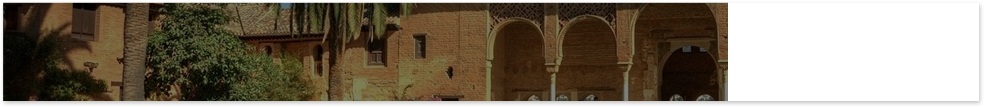
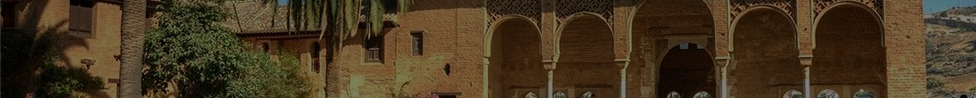
jdcasdoca

diff --git a/assets/css/upcomingStyles.css b/assets/css/upcomingStyles.css
@@ -4,43 +4,43 @@ div.surfing {
 	-moz-background-size:100% 100%;
 	-webkit-background-size:100% 100%;
 	background-size:100% 100%;	
-	padding:15px 10px 10px 10px;
 }
 
-div.grenada div.pickBack{
+div.granada {
 	background-image: url('../../images/upcoming/granadaBKG.png');
 	background-repeat: no-repeat;
-	-moz-background-size:140% 140%;
-	-webkit-background-size:140% 140%;
-	background-size:140% 140%;
-	height:200px;
+	-moz-background-size:100% 100%;
+	-webkit-background-size:100% 100%;
+	background-size:100% 100%;	
 }
 
-div.newYork div.pickBack{
+div.newYork {
 	background-image: url('../../images/upcoming/NYBKG.png');
 	background-repeat: no-repeat;
-	-moz-background-size:140% 140%;
-	-webkit-background-size:140% 140%;
-	background-size:140% 140%;
-	height:200px;
+	-moz-background-size:100% 100%;
+	-webkit-background-size:100% 100%;
+	background-size:100% 100%;	
 }
 
-.surfing h2, .newYork h2, .grenada h2{
+.surfing h2, .newYork h2, .granada h2{
+	padding-top: 10px;
+	padding-left: 5px;
 	font-size: 18px;
 	font-weight:400;
 	color: #fff;
 }
 
-.surfing p, .newYork p, .grenada p{
+.surfing p, .newYork p, .granada p{
+	padding-top: 10px;
 	vertical-align: bottom;
 	color: #EAE9E9;
 }
 
-.surfing strong, .newYork strong, .grenada strong{
-color: #fff;
-}
+.surfing strong, .newYork strong, .granada strong{
+	color: #fff;
+	}
 
-.surfing .bottomRow, .newYork .bottomRow, .grenada .bottomRow{
+.surfing .bottomRow, .newYork .bottomRow, .granada .bottomRow{
 	position:relative;
 	top: 25%;
 	border-bottom: 1px solid #939393;
@@ -69,6 +69,15 @@ color: #fff;
 	-webkit-box-shadow: 2px 1px 2px 2px rgba(0,0,0,.1);
 	box-shadow: 2px 1px 1px 1px rgba(0,0,0.1);
 
+}
+
+.trip-countdown .unclicked {
+	height: 100%;
+	background-color: #fff;
+}
+.trip-countdown .unclicked p {
+	padding-top: 14%;
+	color: rgb(105, 104, 104)
 }
 
 .surfing div.col-md-2{

diff --git a/assets/css/styles.css b/assets/css/styles.css
@@ -681,9 +681,8 @@ input[type="checkbox"]:checked + span {
 }
 
 .upcoming .trip-card {
-	margin-top: -50px;
+	margin-top: -30px;
 	height: 140px;
-	padding-top: 20%;
 	padding-top: 20%;
 }
 
@@ -695,6 +694,11 @@ input[type="checkbox"]:checked + span {
 	color: #2ab0b9;
 	padding-top: 10px;
 	padding-bottom: 5px;
+}
+
+.trips-summary h2,
+.trips-summary p {
+	padding-top: 10px;
 }
 
 /* == CREATE CONTENTS==

diff --git a/php-calls/trip_upcoming_2.php b/php-calls/trip_upcoming_2.php
@@ -1,13 +1,13 @@
 <div class="module-trips">
-  <div class="surfing trips-summary">
+  <div class="granada trips-summary">
       <div class="col-xs-12 col-sm-4">
-        <h2 class="trip-title"><img src="images/upcoming/timer.png"> Surfin' N' Rollin'</h2>
+        <h2 class="trip-title"><img src="images/upcoming/timer.png">Summer in Granada</h2>
       </div>
-      <div class="trip-description col-xs-12 col-sm-4">
-        <p><span>A magic trip full of beaches surfing and vans.</span></p>
+      <div class="trip-description col-xs-12 col-sm-5">
+        <p><span>Party, tapas and sun.</span></p>
       </div>
-      <div class="trip-countdown hidden-xs col-sm-4">
-        <p>Get your stuff ready.<br><span>5 days to go!</span></p>
+      <div class="trip-countdown hidden-xs col-sm-3 unclicked">
+        <p>Get your stuff ready.<br><span>1 month to go!</span></p>
       </div>
   </div>
   <div class="trip-steps hide">

diff --git a/php-calls/trip_upcoming_3.php b/php-calls/trip_upcoming_3.php
@@ -1,13 +1,13 @@
 <div class="module-trips">
-  <div class="surfing trips-summary">
+  <div class="newYork trips-summary">
       <div class="col-xs-12 col-sm-4">
-        <h2 class="trip-title"><img src="images/upcoming/timer.png"> Surfin' N' Rollin'</h2>
+        <h2 class="trip-title"><img src="images/upcoming/timer.png">New York</h2>
       </div>
       <div class="trip-description col-xs-12 col-sm-5">
-        <p><span>A magic trip full of beaches surfing and vans.</span></p>
+        <p><span>Ready, steady, go!</span></p>
       </div>
-      <div class="trip-countdown unclicked hidden-xs col-sm-3">
-        <p>Get your stuff ready.<br><span>5 days to go!</span></p>
+      <div class="trip-countdown hidden-xs col-sm-3 unclicked">
+        <p>Relax buddy<br><span>3 months to go!</span></p>
       </div>
   </div>
   <div class="trip-steps hide">

diff --git a/upcoming.php b/upcoming.php
@@ -21,11 +21,11 @@
         <?php include ('php-calls/trip_upcoming.php'); ?>
       </article>
       <article class="trip">
-        <?php include ('php-calls/trip_upcoming.php'); ?>
+        <?php include ('php-calls/trip_upcoming_2.php'); ?>
       </article>
       <article class="trip">
         <div class="module-trips">
-          <?php include ('php-calls/trip_upcoming.php'); ?>
+          <?php include ('php-calls/trip_upcoming_3.php'); ?>
         </div>
       </article>
    </section>
